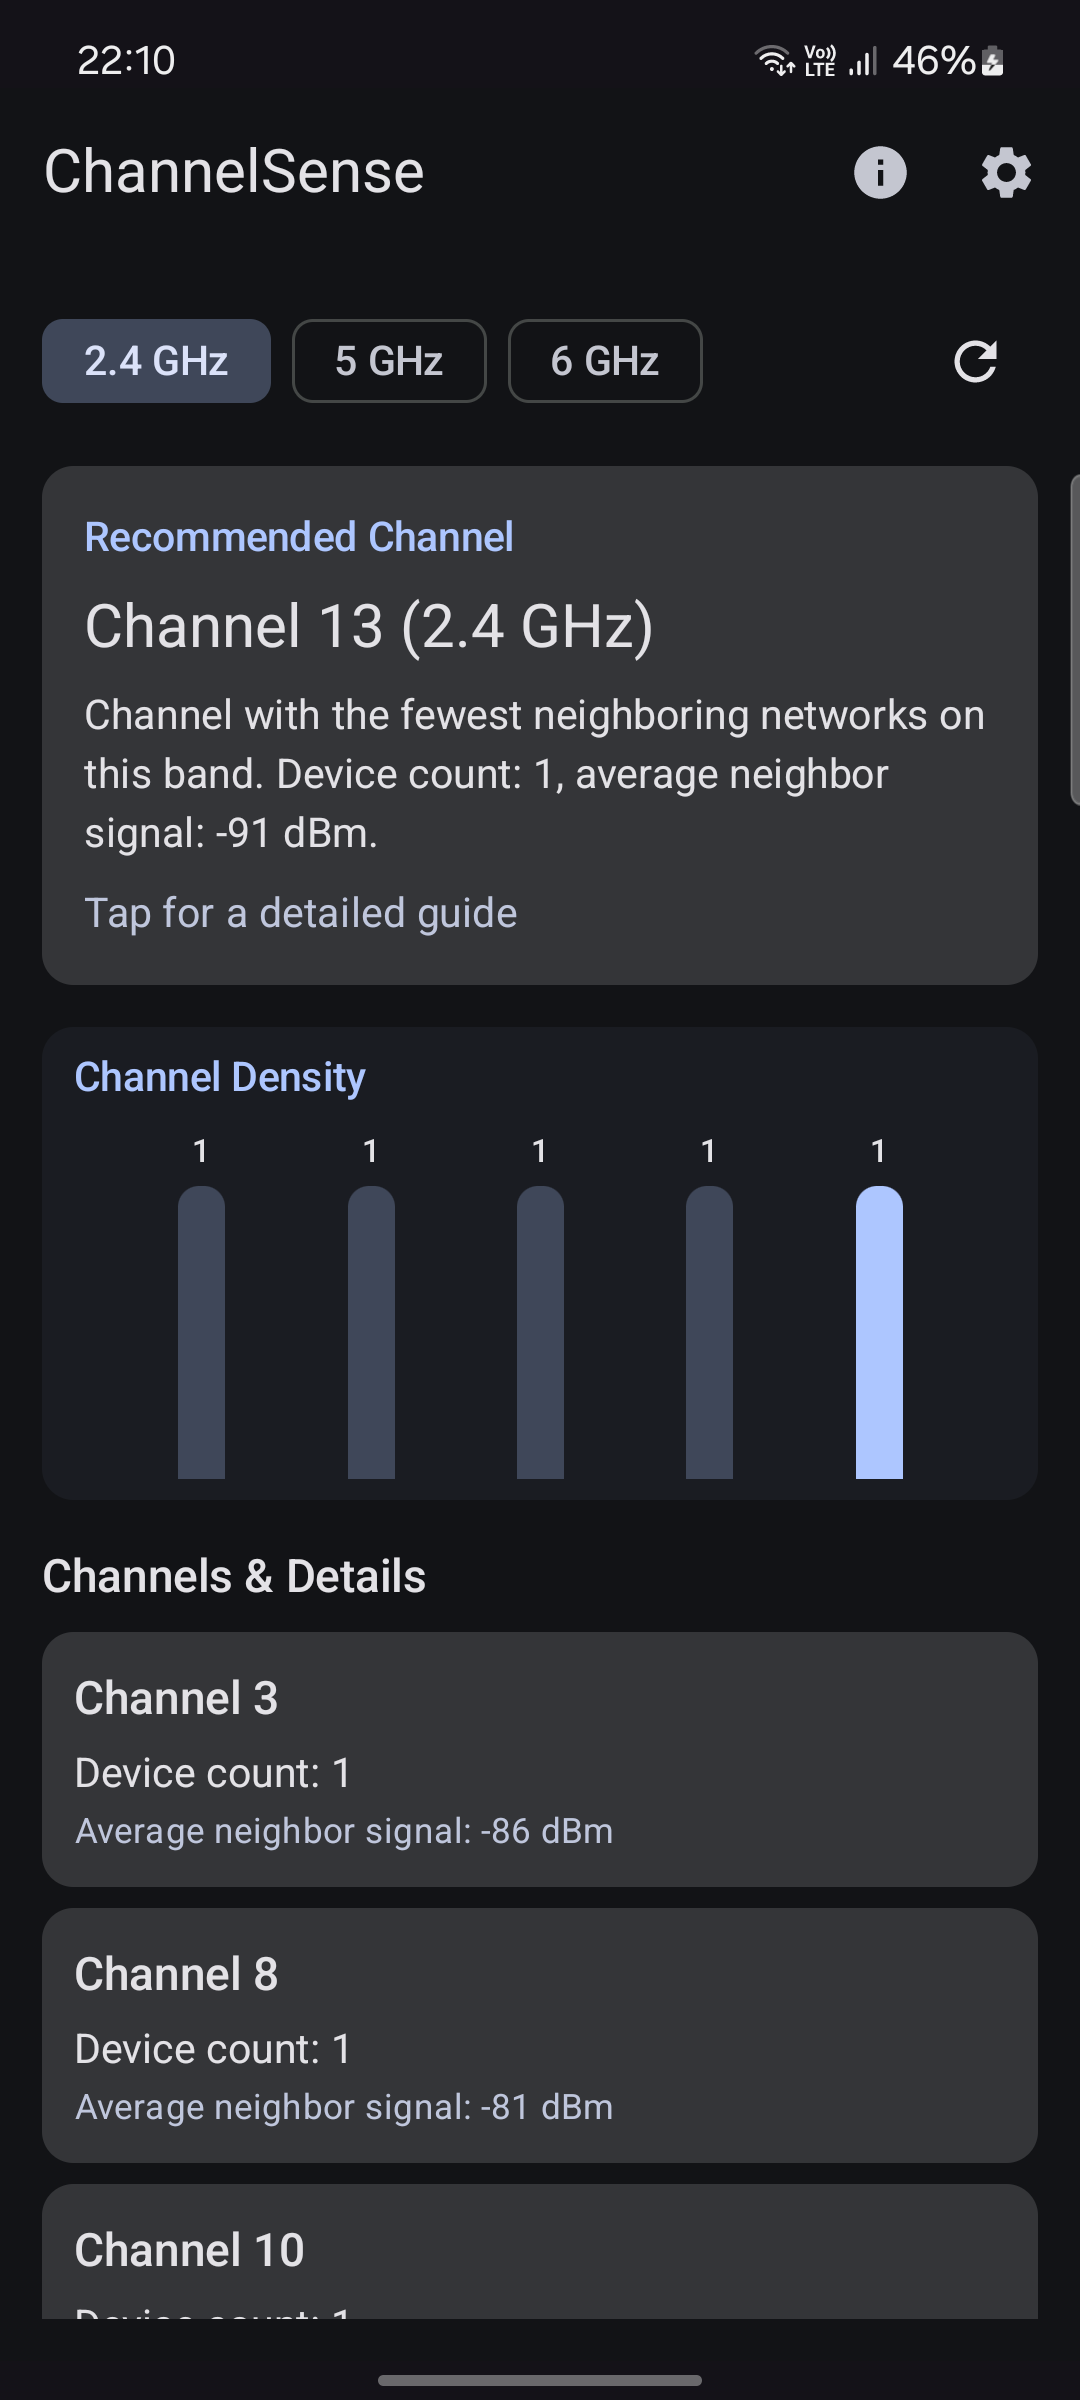
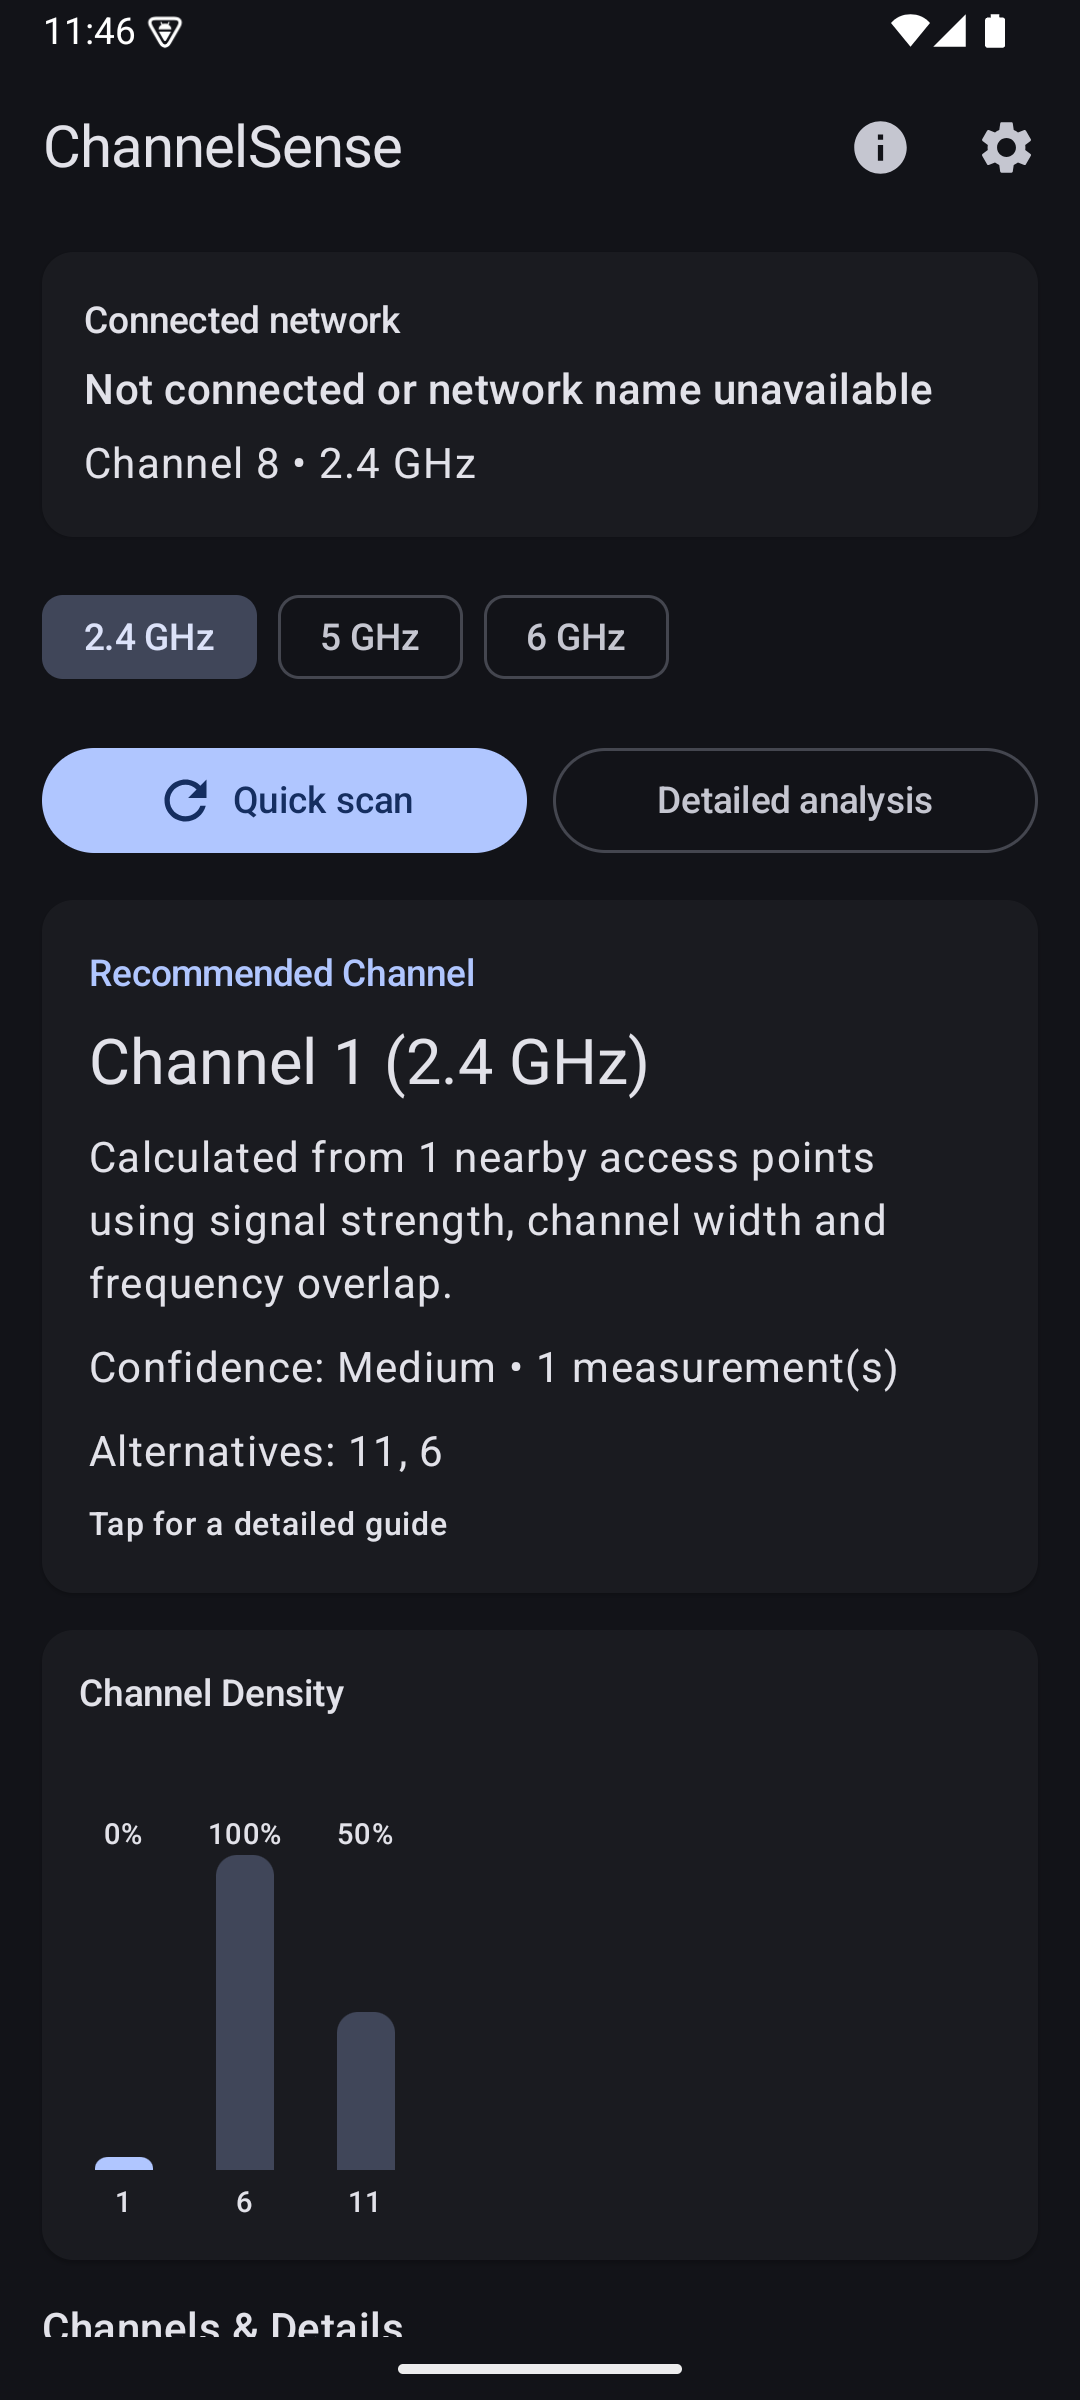
docs(readme): improve project documentation for public release

diff --git a/README.md b/README.md
@@ -1,47 +1,338 @@
+<div align="center">
+
+<img src="assets/logo.png" width="160" alt="ChannelSense Logo"/>
+
 # ChannelSense
 
-ChannelSense is a privacy-first Android Wi-Fi channel advisor. It analyzes nearby access points entirely on-device and recommends a lower-interference channel using signal strength, channel width, and real frequency overlap rather than simply counting networks on the same channel.
+**Privacy-first Wi-Fi Channel Analyzer for Android**
 
-## Highlights
+Find the best Wi-Fi channel using **real interference analysis** instead of simply counting nearby networks.
 
-- 2.4 GHz, 5 GHz, and 6 GHz analysis
-- Quick scan and multi-measurement detailed analysis
-- Connected network and current-channel context
-- Confidence-aware recommendations and alternatives
-- Channel-width and RSSI-weighted interference model
-- Router setup guides for common brands
-- Direct opening of the detected router gateway
-- No account, analytics, advertising, or cloud backend
-- English and Turkish UI
+[![Android](https://img.shields.io/badge/Android-9%2B-brightgreen.svg)]()
+[![Kotlin](https://img.shields.io/badge/Kotlin-2.4-blue.svg)]()
+[![Jetpack Compose](https://img.shields.io/badge/Jetpack%20Compose-Material%203-orange.svg)]()
+[![License](https://img.shields.io/badge/License-Apache%202.0-blue.svg)](LICENSE)
 
-## Important limitations
+</div>
 
-Android can throttle Wi-Fi scans and may return cached results. Recommendations are estimates based on access points visible to the phone. Router capabilities, DFS behavior, walls, client hardware, mesh backhaul, and the internet connection itself can also affect performance.
+---
 
-ChannelSense never changes router settings automatically and never stores router credentials.
+## Overview
 
-## Requirements
+ChannelSense is a modern Android application that helps users choose the most suitable Wi-Fi channel for their router.
 
-- Android 9 or newer
+Unlike many Wi-Fi analyzer applications that only count nearby access points, ChannelSense evaluates multiple radio characteristics to estimate actual channel interference.
+
+The recommendation engine considers:
+
+- Signal strength (RSSI)
+- Channel width
+- Frequency overlap
+- Band characteristics
+- Current connected network
+- Confidence score
+
+Everything runs **entirely on-device**.
+
+No cloud.
+
+No analytics.
+
+No tracking.
+
+No advertisements.
+
+---
+
+## Why ChannelSense?
+
+Most Wi-Fi analyzer applications rank channels by simply counting nearby networks.
+
+In real environments this is rarely accurate.
+
+Two networks on the same channel do not always create the same amount of interference.
+
+ChannelSense estimates channel quality using a weighted interference model that includes:
+
+- RSSI weighting
+- Channel width
+- Frequency overlap
+- Adjacent channel influence
+- Band-specific behavior
+
+The result is a recommendation that better reflects real wireless conditions.
+
+---
+
+# Features
+
+## Wi-Fi Analysis
+
+- 2.4 GHz analysis
+- 5 GHz analysis
+- 6 GHz analysis
+- Current connected channel detection
+- Nearby Access Point discovery
+- RSSI visualization
+- Channel utilization graph
+- Alternative channel recommendations
+- Confidence indicator
+
+---
+
+## Analysis Modes
+
+### Quick Analysis
+
+Single scan for instant recommendations.
+
+Ideal for everyday users.
+
+### Detailed Analysis
+
+Performs multiple measurements to reduce temporary fluctuations and provide more stable recommendations.
+
+---
+
+## Recommendation Engine
+
+ChannelSense recommends channels using:
+
+- RSSI weighted scoring
+- Frequency overlap calculations
+- Channel width impact
+- Adjacent channel interference
+- Confidence estimation
+
+This produces significantly more useful recommendations than network-count based approaches.
+
+---
+
+## Router Assistance
+
+ChannelSense also helps users apply the recommendation.
+
+Features include:
+
+- Router setup guides
+- Common router brands
+- Gateway detection
+- Open router admin page directly
+- Channel configuration instructions
+
+---
+
+## Privacy First
+
+Privacy is a core design principle.
+
+ChannelSense:
+
+- does not require an account
+- does not upload Wi-Fi information
+- does not collect analytics
+- does not use advertising SDKs
+- does not communicate with any backend server
+
+All analysis is performed locally on the device.
+
+For more information see:
+
+- **PRIVACY.md**
+
+---
+
+# Screenshots
+
+| Home | Analysis | Recommendation |
+|------|-----------|----------------|
+| <img src="assets/1.png" width="220"/> | <img src="assets/2.png" width="220"/> | <img src="assets/3.png" width="220"/> |
+
+---
+
+# Architecture
+
+The project follows a clean and modular architecture.
+
+```
+app
+│
+├── domain
+│   └── Recommendation Engine
+│
+├── feature
+│   ├── Analyzer
+│   ├── Settings
+│   └── Router Guide
+│
+├── wifi
+│   ├── Scanner
+│   ├── Connection
+│   └── Permissions
+│
+├── ui
+│
+└── util
+```
+
+Core recommendation logic is independent from Android APIs, making it easy to test and maintain.
+
+---
+
+# Tech Stack
+
+- Kotlin
+- Jetpack Compose
+- Material 3
+- Navigation Compose
+- ViewModel
+- DataStore
+- Android Wi-Fi APIs
+- Android 9+
+- Gradle Kotlin DSL
+
+---
+
+# Project Structure
+
+```
+domain/
+    ChannelRecommendationEngine
+
+feature/
+    analyzer/
+    settings/
+    guide/
+
+wifi/
+    scanner/
+    permissions/
+    connection/
+
+ui/
+theme/
+navigation/
+
+util/
+```
+
+---
+
+# Requirements
+
+- Android 9 (API 28) or newer
 - Wi-Fi enabled
-- Location Services enabled where Android requires them for Wi-Fi scans
-- Nearby Wi-Fi / precise location permission depending on Android version
+- Location Services enabled (required by Android)
+- Nearby Wi-Fi permission
+- Location permission (depending on Android version)
 
-## Architecture
+---
 
-The recommendation engine is Android-independent and unit-testable. Android-specific scanning and connected-network discovery are isolated under `wifi/`; feature UI and state live under `feature/`.
+# Building
 
-## Build
+Clone the repository.
 
 ```bash
-./gradlew testDebugUnitTest
+git clone https://github.com/mahmutaunal/ChannelSense.git
+```
+
+Open with Android Studio.
+
+Build:
+
+```bash
 ./gradlew assembleDebug
 ```
 
-## Privacy
+Run tests:
 
-See [PRIVACY.md](PRIVACY.md).
+```bash
+./gradlew testDebugUnitTest
+```
 
-## License
+Generate Release:
 
-Apache License 2.0.
+```bash
+./gradlew assembleRelease
+```
+
+---
+
+# Important Limitations
+
+Android applies several restrictions to Wi-Fi scanning.
+
+Because of platform limitations:
+
+- scan results may be cached
+- scan frequency may be throttled
+- hidden networks may not appear
+- DFS channels behave differently
+- mesh systems may affect results
+
+Recommendations are estimates based on the access points visible to the device at scan time.
+
+---
+
+# Contributing
+
+Contributions are welcome.
+
+If you would like to:
+
+- fix bugs
+- improve the recommendation engine
+- optimize performance
+- improve translations
+- enhance the UI
+
+please open an Issue or submit a Pull Request.
+
+---
+
+# Roadmap
+
+Future ideas include:
+
+- Material You dynamic color
+- Tablet optimization
+- Foldable support
+- Better visualization
+- Export scan results
+- Historical comparison
+- Automatic periodic scans
+- More router setup guides
+- Improved DFS awareness
+
+---
+
+# License
+
+Licensed under the Apache License 2.0.
+
+See the **LICENSE** file for details.
+
+---
+
+# Author
+
+**Mahmut Alperen Ünal**
+
+GitHub
+
+https://github.com/mahmutaunal
+
+---
+
+## Support
+
+If you find this project useful:
+
+- ⭐ Star the repository
+- 🐞 Report bugs
+- 💡 Suggest new features
+- 🤝 Contribute to the project
+
+---
+
+Made with ❤ using Kotlin and Jetpack Compose.
